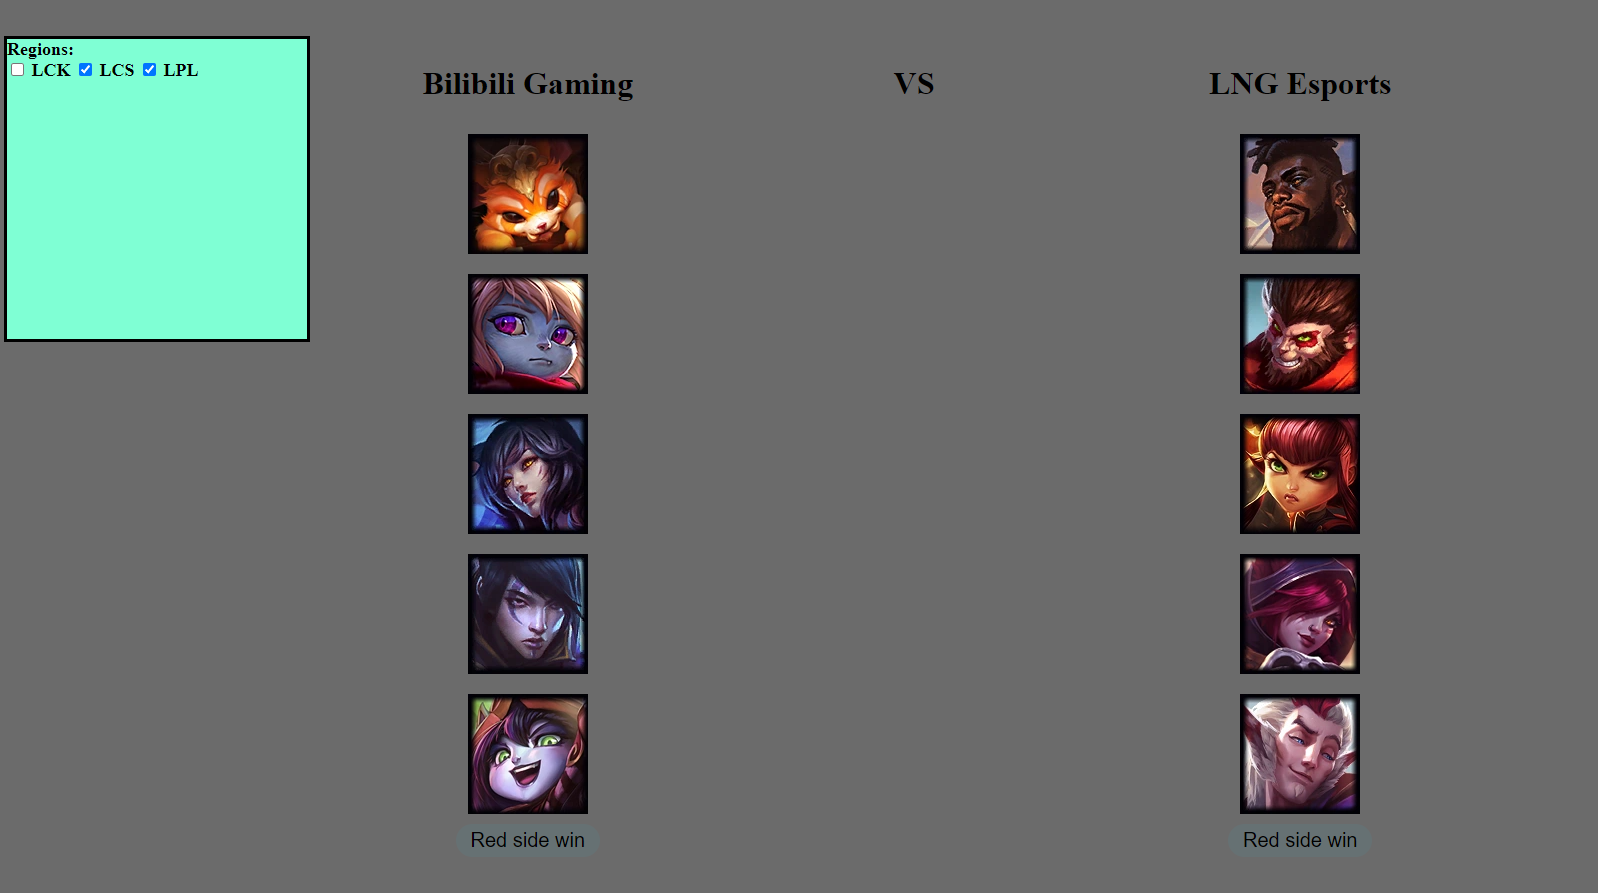
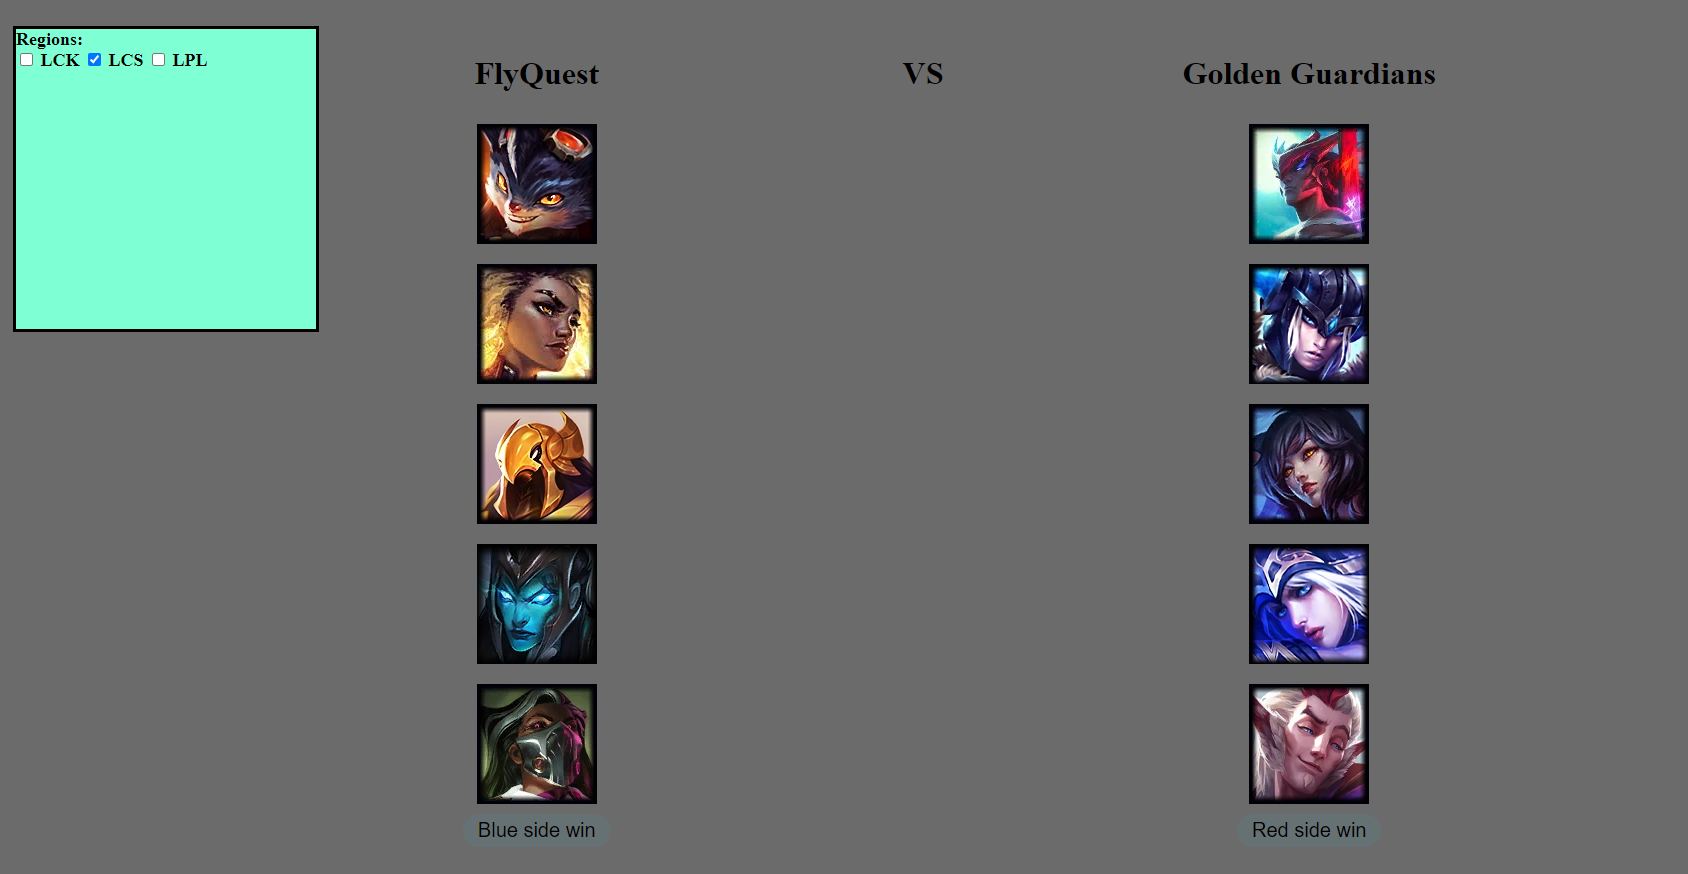
Updated example image in Readme

diff --git a/DBConnector.php b/DBConnector.php
@@ -1,6 +1,7 @@
 <?php
 include "Game.php";
 include "Team.php";
+
 class DBConnector {
     private $conn;
     public $game;
@@ -28,6 +29,7 @@ class DBConnector {
         return rand(1, $result->num_rows);
     }
 
+    // Queries database for random game based on given $id
     public function get_game_data($id) {
         $blue_side = new Team();
         $red_side = new Team();

diff --git a/index.php b/index.php
@@ -48,7 +48,7 @@ if (isset($_GET['red_side'])) {
             ?>
 
             <form method="get">
-                <input type="submit" name="blue_side" value="Red side win">
+                <input type="submit" name="blue_side" value="Blue side win">
             </form> 
         </div>
 
